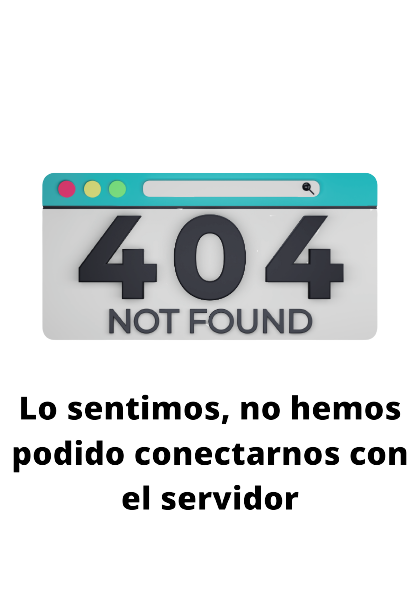
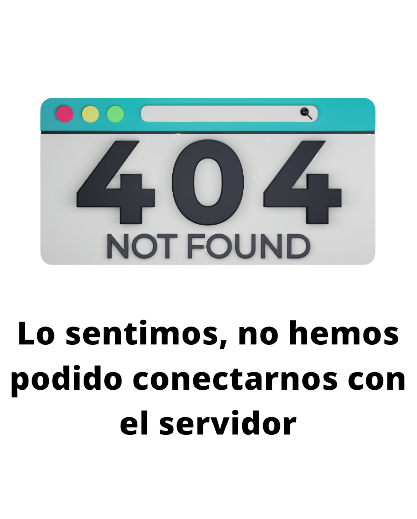
Actualizada la imagen de error de servidor, y cambiado el color del CircularProgressIndicator

diff --git a/my_online_doctor/lib/ui/search_doctor/search_doctor_page.dart b/my_online_doctor/lib/ui/search_doctor/search_doctor_page.dart
@@ -101,7 +101,7 @@ class _SearchDoctorPageState extends State<SearchDoctorPage> {
 
               case ConnectionState.waiting:
               case ConnectionState.none:
-                return const Center(child: CircularProgressIndicator());
+                return const Center(child: CircularProgressIndicator(color: colorPrimary,));
 
               case ConnectionState.done:
               case ConnectionState.active:

diff --git a/my_online_doctor/lib/ui/styles/colors.dart b/my_online_doctor/lib/ui/styles/colors.dart
@@ -1,6 +1,6 @@
 import 'package:flutter/material.dart';
 
-const colorPrimary = Color.fromARGB(255, 99, 168, 238);
+const colorPrimary = Color.fromARGB(255, 41, 205, 191);
 const colorSecondary = Color(0xFFcecece);
 const colorActive = Color.fromARGB(255, 4, 159, 255);
 const colorInactive = Color(0xFF7b7c7c);
